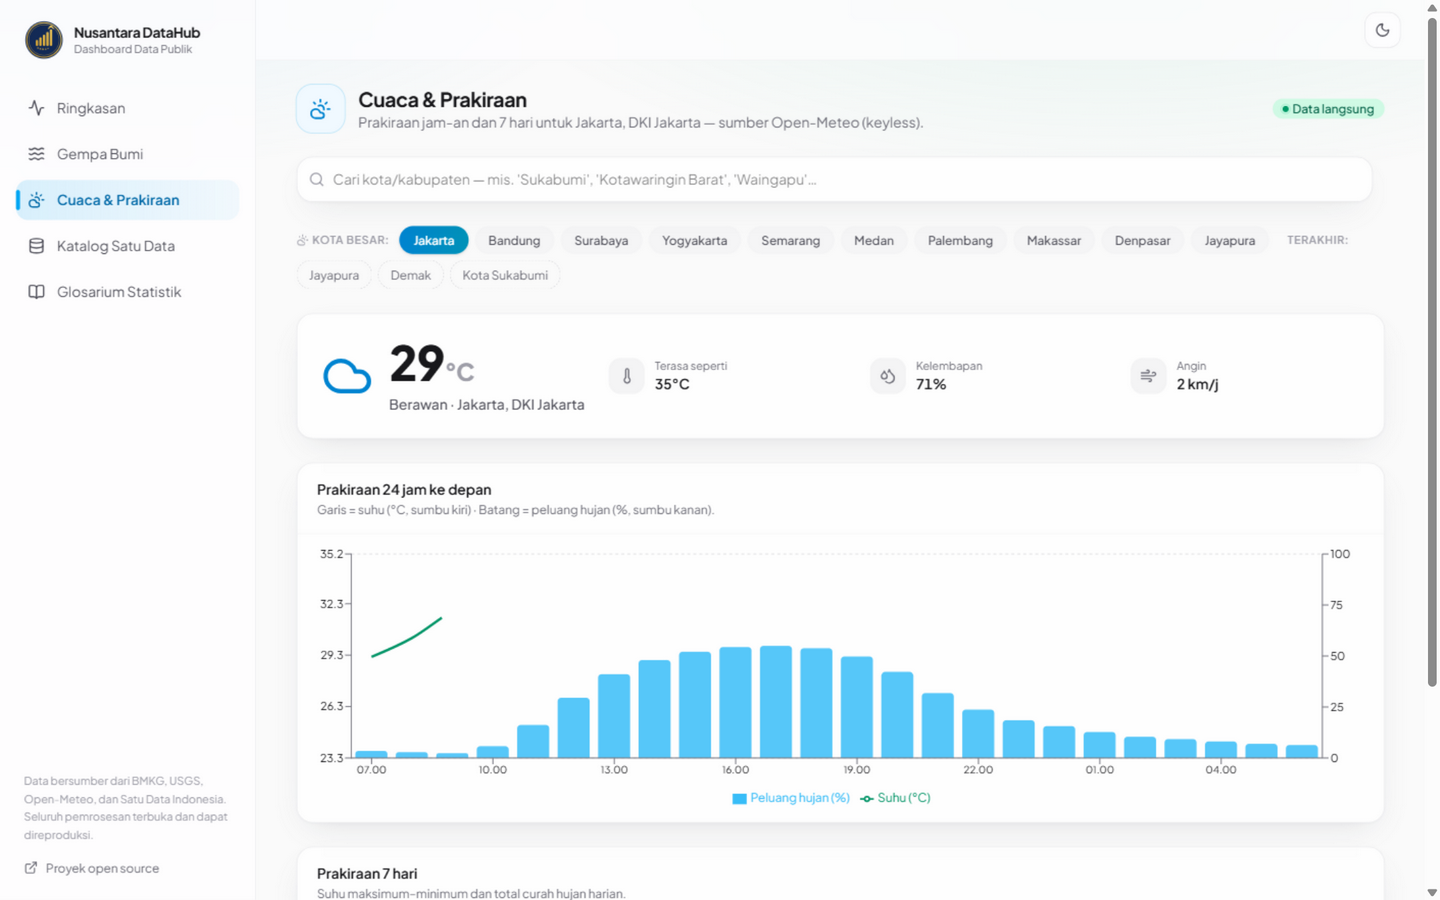
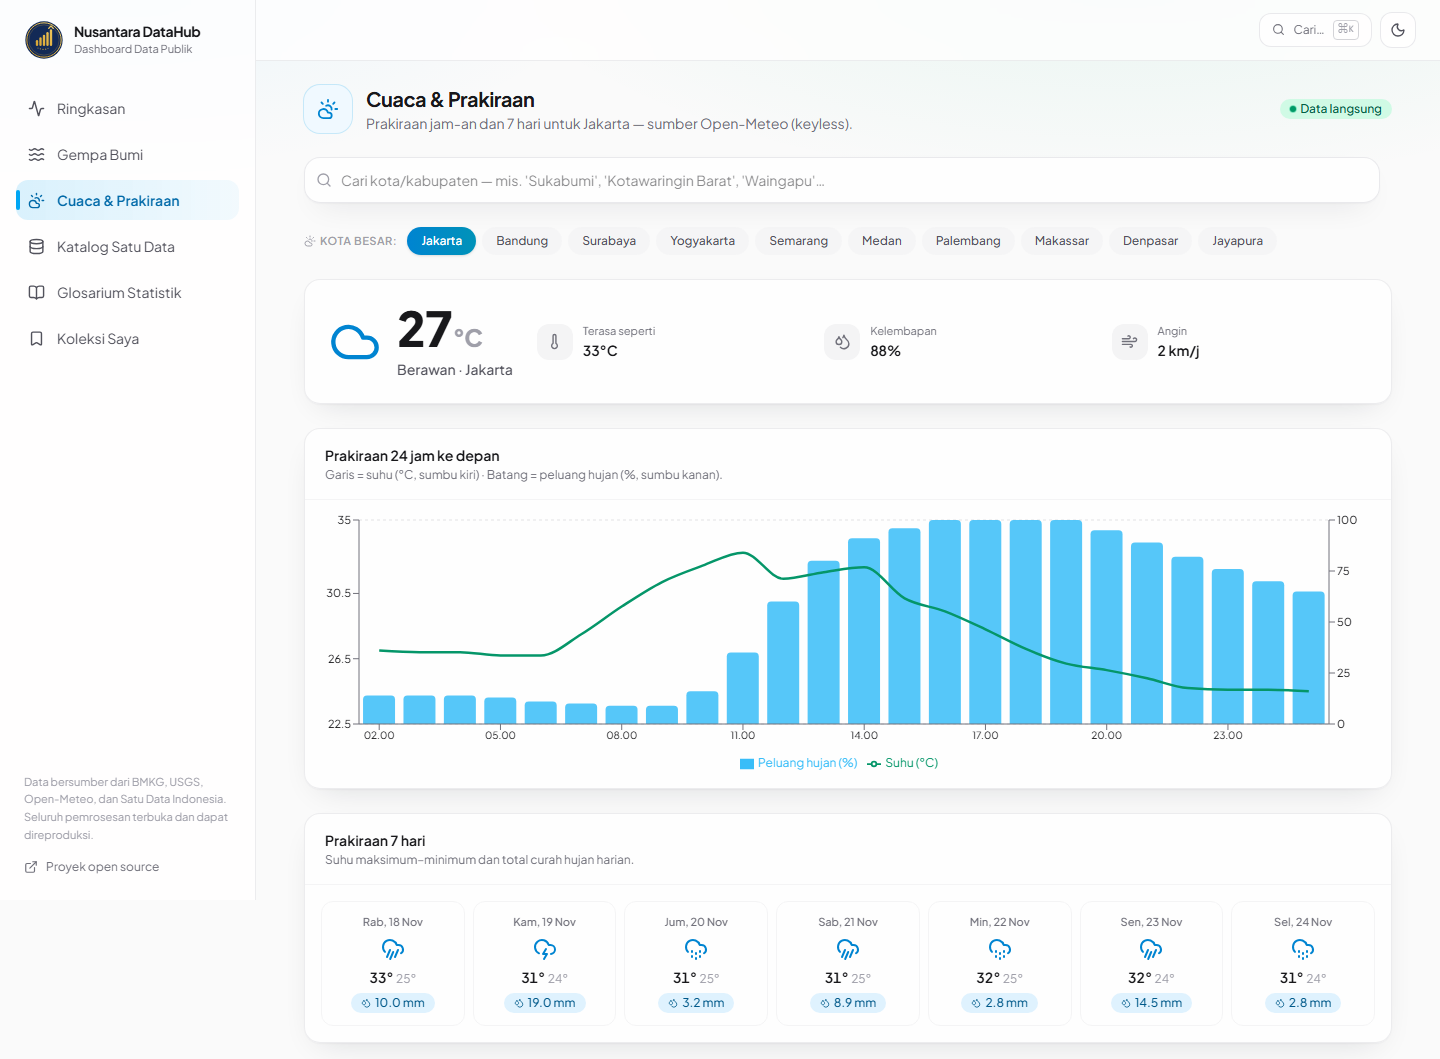
docs: README, About, dan screenshot sesuai fitur terbaru
- README: tabel fitur diperluas (Ringkasan, filter facet, detail dataset,
  koleksi/bookmark, ekspor CSV multi-halaman, command palette, PWA/SEO),
  arsitektur + struktur proyek diperbarui (katalog/[slug], koleksi, cache.ts,
  katalog-limits.ts, tests/), perintah npm test, roadmap ditandai
- screenshot diambil ulang dari build terbaru (1440px): overview, gempa,
  analitik, cuaca, katalog (dengan filter facet), detail dataset, glosarium,
  koleksi
- metadata aplikasi (deskripsi OG/Twitter) menyebut modul glosarium & koleksi

diff --git a/app/layout.tsx b/app/layout.tsx
@@ -19,7 +19,7 @@ export const metadata: Metadata = {
     template: "%s · Nusantara DataHub",
   },
   description:
-    "Dashboard terpadu data publik Indonesia: gempa bumi BMKG, katalog Satu Data Indonesia, dan prakiraan cuaca dalam satu aplikasi open source.",
+    "Dashboard terpadu data publik Indonesia: gempa bumi BMKG, katalog dataset Satu Data Indonesia dengan filter facet, prakiraan cuaca, glosarium statistik, dan koleksi dataset — open source.",
   applicationName: "Nusantara DataHub",
   manifest: "/manifest.webmanifest",
   openGraph: {
@@ -28,7 +28,7 @@ export const metadata: Metadata = {
     siteName: "Nusantara DataHub",
     title: "Nusantara DataHub — Dashboard Data Publik Indonesia",
     description:
-      "Gempa bumi BMKG, katalog dataset Satu Data Indonesia, prakiraan cuaca, dan glosarium statistik dalam satu dashboard open source.",
+      "Gempa bumi BMKG, katalog dataset Satu Data Indonesia (filter facet + halaman detail), prakiraan cuaca, glosarium statistik, dan koleksi dataset dalam satu dashboard open source.",
   },
   twitter: { card: "summary_large_image" },
 };

diff --git a/README.md b/README.md
@@ -1,6 +1,6 @@
 # Nusantara DataHub 🇮🇩
 
-**Dashboard terpadu data publik Indonesia** — gempa bumi BMKG, katalog dataset Satu Data Indonesia, dan prakiraan cuaca, digabung dalam satu aplikasi web open source.
+**Dashboard terpadu data publik Indonesia** — gempa bumi BMKG, katalog dataset Satu Data Indonesia, prakiraan cuaca, dan glosarium statistik, digabung dalam satu aplikasi web open source.
 
 > 🔴 **Demo langsung:** [https://nusantara-datahub.netlify.app](https://nusantara-datahub.netlify.app)
 
@@ -14,18 +14,23 @@
 
 | Modul | Sumber | Key? | Isi |
 |---|---|---|---|
+| 🧭 **Ringkasan** | agregasi semua modul | tidak perlu | Satu layar berisi KPI lintas sumber (gempa terkini, kejadian gempa 90 hari, dataset terindeks, cuaca Jakarta), pencarian topik yang langsung membuka katalog, kartu ringkas tiap modul, dan tabel status sumber data |
 | 🌊 **Gempa Bumi** | [BMKG TEWS](https://data.bmkg.go.id/DataMKG/TEWS/gempaterkini.json) + [USGS FDSN](https://earthquake.usgs.gov/fdsnws/event/1/) | tidak perlu | Gempa terkini M≥5,0, gempa dirasakan (skala MMI), peta sebaran interaktif Leaflet, shakemap BMKG, **analitik 90 hari** (histogram magnitude, sebaran per wilayah, tren harian), tombol salin ringkasan |
 | 🌦 **Cuaca & Prakiraan** | [Open-Meteo](https://open-meteo.com) (prakiraan + geocoder) | tidak perlu | Prakiraan jam-an 24 jam dan 7 hari untuk **seluruh kota/kabupaten Indonesia** (pencarian geocoding berbahasa Indonesia, hasil dibedakan per provinsi), akses cepat 10 kota besar, riwayat tempat tersimpan lokal |
-| 🗂 **Katalog Satu Data** | [SSR data.go.id](https://data.go.id/dataset) | tidak perlu | Pencarian ribuan dataset resmi lintas instansi (747rb+ terindeks), topik populer (klik = filter), paginasi, **ekspor CSV** |
+| 🗂 **Katalog Satu Data** | [payload data.go.id](https://data.go.id/dataset) | tidak perlu | Pencarian 747rb+ dataset resmi lintas instansi, **topik cepat** (pangan, kemiskinan, stunting, …) dan **topik terkait** dari facet tag, **filter facet** kategori/tahun/format/instansi yang dikirim langsung ke portal, **halaman detail dataset** dengan berkas unduhan, **ekspor CSV** (halaman ini atau ±200 dataset), paginasi dengan lompat-halaman, riwayat & saran kueri |
+| 📌 **Koleksi Saya** | `localStorage` perangkat | tidak perlu | Bookmark dataset dari katalog/detail, tersimpan lokal tanpa server, ekspor koleksi ke CSV |
 | 📖 **Glosarium Statistik** | data statis di repo | tidak perlu | 46 istilah statistik: penjelasan bahasa awam, rumus, contoh — pencarian + filter kategori |
 
 ### Unggulan desain
 
 - **Graceful degradation yang jujur** — upstream mati/tidak terjangkau? Halaman tetap berfungsi memakai data contoh bawaan, ditandai badge *"Data contoh (fallback)"* agar pengguna tidak keliru menganggapnya data live.
-- **Semua upstream lewat proxy server** (route handlers Next.js) — tanpa masalah CORS, dan respons di-cache dengan durasi yang sesuai tiap sumber (5 menit hingga 1 jam).
-- **Normalizer murni + test** — parsing data mentah BMKG dan SSR Satu Data diisolasi sebagai fungsi pure ber-fixture, diuji tanpa jaringan.
-- **Desain Soft Modern**: font [Plus Jakarta Sans](https://fonts.google.com/specimen/Plus+Jakarta+Sans) (dirancang perancang Indonesia), kartu efek kaca (`backdrop-blur`), sistem aksen warna per modul (gempa=rose, cuaca=sky, katalog=emerald, glosarium=violet), dan animasi angka *count-up*.
-- **Dark mode** berbasis `next-themes`, UI responsif berbahasa Indonesia.
+- **Pencarian katalog yang tahan gangguan portal** — halaman data.go.id kadang dibalas "cangkang" tanpa data (HTTP 200). Validasi payload membedakan cangkang dari hasil kosong sah, lalu permintaan diulang; hasil kosong palsu tidak pernah masuk cache.
+- **Semua upstream lewat proxy server** (route handlers Next.js) — tanpa masalah CORS, dengan cache in-memory ber-TTL + *single-flight* agar satu kueri populer tidak menembak portal berkali-kali.
+- **Normalizer murni + test** — parsing data mentah BMKG dan payload Satu Data diisolasi sebagai fungsi pure ber-fixture; `npm test` menjalankan 12 tes tanpa jaringan.
+- **⌘K / Ctrl+K command palette** — lompat ke modul mana pun atau langsung mencari topik di katalog.
+- **PWA ringan + SEO** — manifest, service worker, `sitemap.xml`, `robots.txt`, JSON-LD `Dataset` pada halaman detail, dan metadata per halaman.
+- **Desain Soft Modern**: font [Plus Jakarta Sans](https://fonts.google.com/specimen/Plus+Jakarta+Sans) (dirancang perancang Indonesia), kartu efek kaca (`backdrop-blur`), sistem aksen warna per modul (gempa=rose, cuaca=sky, katalog=emerald, glosarium=violet, koleksi=amber), dan animasi angka *count-up*.
+- **Dark mode** berbasis `next-themes`, UI responsif berbahasa Indonesia (sidebar di desktop, bottom-nav di ponsel).
 
 ## Arsitektur
 
@@ -33,22 +38,26 @@
 flowchart LR
     subgraph Browser
         UI[Server Components + Client Components]
+        LS[(localStorage<br/>koleksi + riwayat)]
     end
     subgraph "Next.js Server"
         API1["/api/gempa (+ /analitik)"]
-        API2["/api/katalog"]
+        API2["/api/katalog (+ /ekspor, /kesehatan)"]
         API3["/api/cuaca"]
         API4["/api/geocoding"]
-        LIB[lib/sources.ts<br/>timeout + cache + retry]
+        LIB["lib/sources.ts<br/>timeout + retry + fallback"]
+        CACHE[("lib/cache.ts<br/>TTL + single-flight")]
         FIX[lib/fixtures/*<br/>data contoh]
     end
     BMKG[data.bmkg.go.id<br/>TEWS JSON]
     USGS[earthquake.usgs.gov<br/>katalog CSV]
-    SDI[data.go.id<br/>SSR halaman pencarian]
+    SDI[data.go.id<br/>halaman pencarian & detail]
     OM[api.open-meteo.com<br/>prakiraan + geocoder JSON]
 
     UI --> API1 & API2 & API3 & API4
+    UI <--> LS
     API1 & API2 & API3 & API4 --> LIB
+    LIB --> CACHE
     LIB --> BMKG & USGS & SDI & OM
     LIB -. "fallback saat upstream gagal" .-> FIX
 ```
@@ -78,26 +87,36 @@ Perintah lain:
 | `npm run dev` | Development server |
 | `npm run build` | Build produksi |
 | `npm run start` | Jalankan hasil build produksi |
+| `npm test` | 12 tes parser/cache/CSV (tanpa jaringan, memakai fixture HTML asli portal) |
 
 ## Struktur proyek
 
 ```
 ├─ app/
-│  ├─ page.tsx              # Ringkasan: kartu status sumber data
-│  ├─ gempa/page.tsx        # Modul gempa (hero + peta + tabel + analitik 90 hari)
-│  ├─ cuaca/page.tsx        # Prakiraan cuaca Open-Meteo (geocoding semua kota/kabupaten)
-│  ├─ katalog/page.tsx      # Pencarian dataset Satu Data (parser SSR) + ekspor CSV
-│  ├─ glosarium/page.tsx    # Kamus istilah statistik EN-ID
-│  ├─ icon.svg              # Favicon (logo mark)
-│  └─ api/{gempa,katalog,cuaca,geocoding}/route.ts   # Proxy + cache + fallback
+│  ├─ page.tsx                  # Ringkasan: KPI lintas modul + pencarian topik + status sumber
+│  ├─ gempa/page.tsx            # Modul gempa (hero + peta + tabel + analitik 90 hari)
+│  ├─ cuaca/page.tsx            # Prakiraan cuaca Open-Meteo (geocoding semua kota/kabupaten)
+│  ├─ katalog/page.tsx          # Pencarian + filter facet + ekspor CSV + paginasi
+│  ├─ katalog/[slug]/page.tsx   # Detail dataset: metadata, berkas unduhan, JSON-LD
+│  ├─ koleksi/page.tsx          # Bookmark dataset (localStorage) + ekspor koleksi
+│  ├─ glosarium/page.tsx        # Kamus istilah statistik EN-ID
+│  ├─ manifest.ts / robots.ts / sitemap.ts        # PWA + SEO
+│  ├─ icon.svg                  # Favicon (logo mark)
+│  └─ api/{gempa,katalog,cuaca,geocoding}/…       # Proxy + cache + fallback
+├─ components/                  # UI: peta Leaflet, tabel, chart Recharts, command palette, primitif
 ├─ lib/
-│  ├─ sources.ts            # Lapisan service: fetch upstream, timeout, fallback
+│  ├─ sources.ts                # Lapisan service: fetch upstream, timeout, fallback
 │  ├─ bmkg.ts / ckan.ts / weather.ts / usgs.ts / glossary.ts   # Normalizer pure (tertest)
-│  ├─ indonesia-map.ts      # Siluet kepulauan untuk logo (Natural Earth, domain publik)
-│  ├─ types.ts              # Tipe domain
-│  └─ fixtures/             # Data contoh realistis (fallback)
-├─ components/              # UI: peta Leaflet, tabel, chart Recharts, logo, primitif
-└─ netlify.toml             # Konfigurasi deploy (plugin nextjs, Node 22)
+│  ├─ cache.ts                  # Cache TTL + deduplikasi permintaan paralel
+│  ├─ katalog-limits.ts         # Batas halaman katalog (dipakai API + UI)
+│  ├─ katalog-params.ts / katalog-history.ts / koleksi.ts      # Query, riwayat, bookmark
+│  ├─ topics.ts                 # Daftar topik populer lintas modul
+│  ├─ indonesia-map.ts          # Siluet kepulauan untuk logo (Natural Earth, domain publik)
+│  ├─ types.ts                  # Tipe domain
+│  └─ fixtures/                 # Data contoh realistis (fallback)
+├─ public/sw.js                 # Service worker (PWA)
+├─ tests/                       # Tes parser + fixture HTML asli portal
+└─ netlify.toml                 # Konfigurasi deploy (plugin nextjs, Node 22)
 ```
 
 ## Screenshot
@@ -106,7 +125,8 @@ Perintah lain:
 |---|---|
 | ![Ringkasan](docs/screenshot-overview.png) | ![Gempa](docs/screenshot-gempa.png) |
 | ![Analitik gempa](docs/screenshot-analitik.png) | ![Cuaca](docs/screenshot-cuaca.png) |
-| ![Katalog](docs/screenshot-katalog.png) | ![Glosarium](docs/screenshot-glosarium.png) |
+| ![Katalog + filter facet](docs/screenshot-katalog.png) | ![Detail dataset](docs/screenshot-dataset.png) |
+| ![Glosarium](docs/screenshot-glosarium.png) | ![Koleksi saya](docs/screenshot-koleksi.png) |
 
 ## Deployment
 
@@ -120,7 +140,7 @@ Repositori ini sudah berisi `netlify.toml` (plugin `@netlify/plugin-nextjs`, Nod
 | Sumber | Ketentuan |
 |---|---|
 | [BMKG](https://www.bmkg.go.id) | Data gempa © BMKG, digunakan untuk tujuan non-komersial dengan atribusi |
-| [Satu Data Indonesia](https://data.go.id) | Portal data terbuka pemerintah (diakses via halaman SSR publik) |
+| [Satu Data Indonesia](https://data.go.id) | Portal data terbuka pemerintah (diakses via halaman publik portal) |
 | [USGS](https://earthquake.usgs.gov) | Katalog gempa global, domain publik |
 | [Open-Meteo](https://open-meteo.com) | Prakiraan cuaca, lisensi CC BY 4.0 |
 | [Natural Earth](https://github.com/nvkelso/natural-earth-vector) | Siluet peta pada logo, domain publik |
@@ -129,6 +149,10 @@ Proyek ini **bukan** produk resmi BMKG, Satu Data Indonesia, USGS, maupun Open-M
 
 ## Roadmap
 
+- [x] Filter facet katalog (kategori, tahun, format, instansi) langsung ke portal
+- [x] Halaman detail dataset + berkas unduhan + JSON-LD
+- [x] Koleksi/bookmark dataset dan ekspor CSV multi-halaman
+- [x] PWA (manifest + service worker), sitemap, robots, command palette ⌘K
 - [ ] Cuaca resmi BMKG (api.bmkg.go.id) sebagai opsi tambahan ber-key
 - [ ] Analitik gempa: filter rentang magnitude & wilayah interaktif
 - [ ] Pengayaan glosarium: 100+ istilah + contoh soal
@@ -137,4 +161,4 @@ Proyek ini **bukan** produk resmi BMKG, Satu Data Indonesia, USGS, maupun Open-M
 
 ---
 
-**English (short).** Nusantara DataHub is an open-source dashboard unifying Indonesia's public data: real-time earthquakes (BMKG + USGS analytics), weather forecasts for every Indonesian regency (Open-Meteo), and the national open-data catalog (Satu Data). Built with Next.js 15 + TypeScript; every upstream call goes through server-side proxies with per-source caching and an honest "sample data" fallback when the upstream is unreachable. **Live demo:** https://nusantara-datahub.netlify.app
+**English (short).** Nusantara DataHub is an open-source dashboard unifying Indonesia's public data: real-time earthquakes (BMKG + USGS analytics), weather forecasts for every Indonesian regency (Open-Meteo), and the national open-data catalog (Satu Data) with faceted search, dataset detail pages, saved collections and CSV export. Built with Next.js 15 + TypeScript; every upstream call goes through server-side proxies with per-source caching and an honest "sample data" fallback when the upstream is unreachable. **Live demo:** https://nusantara-datahub.netlify.app
